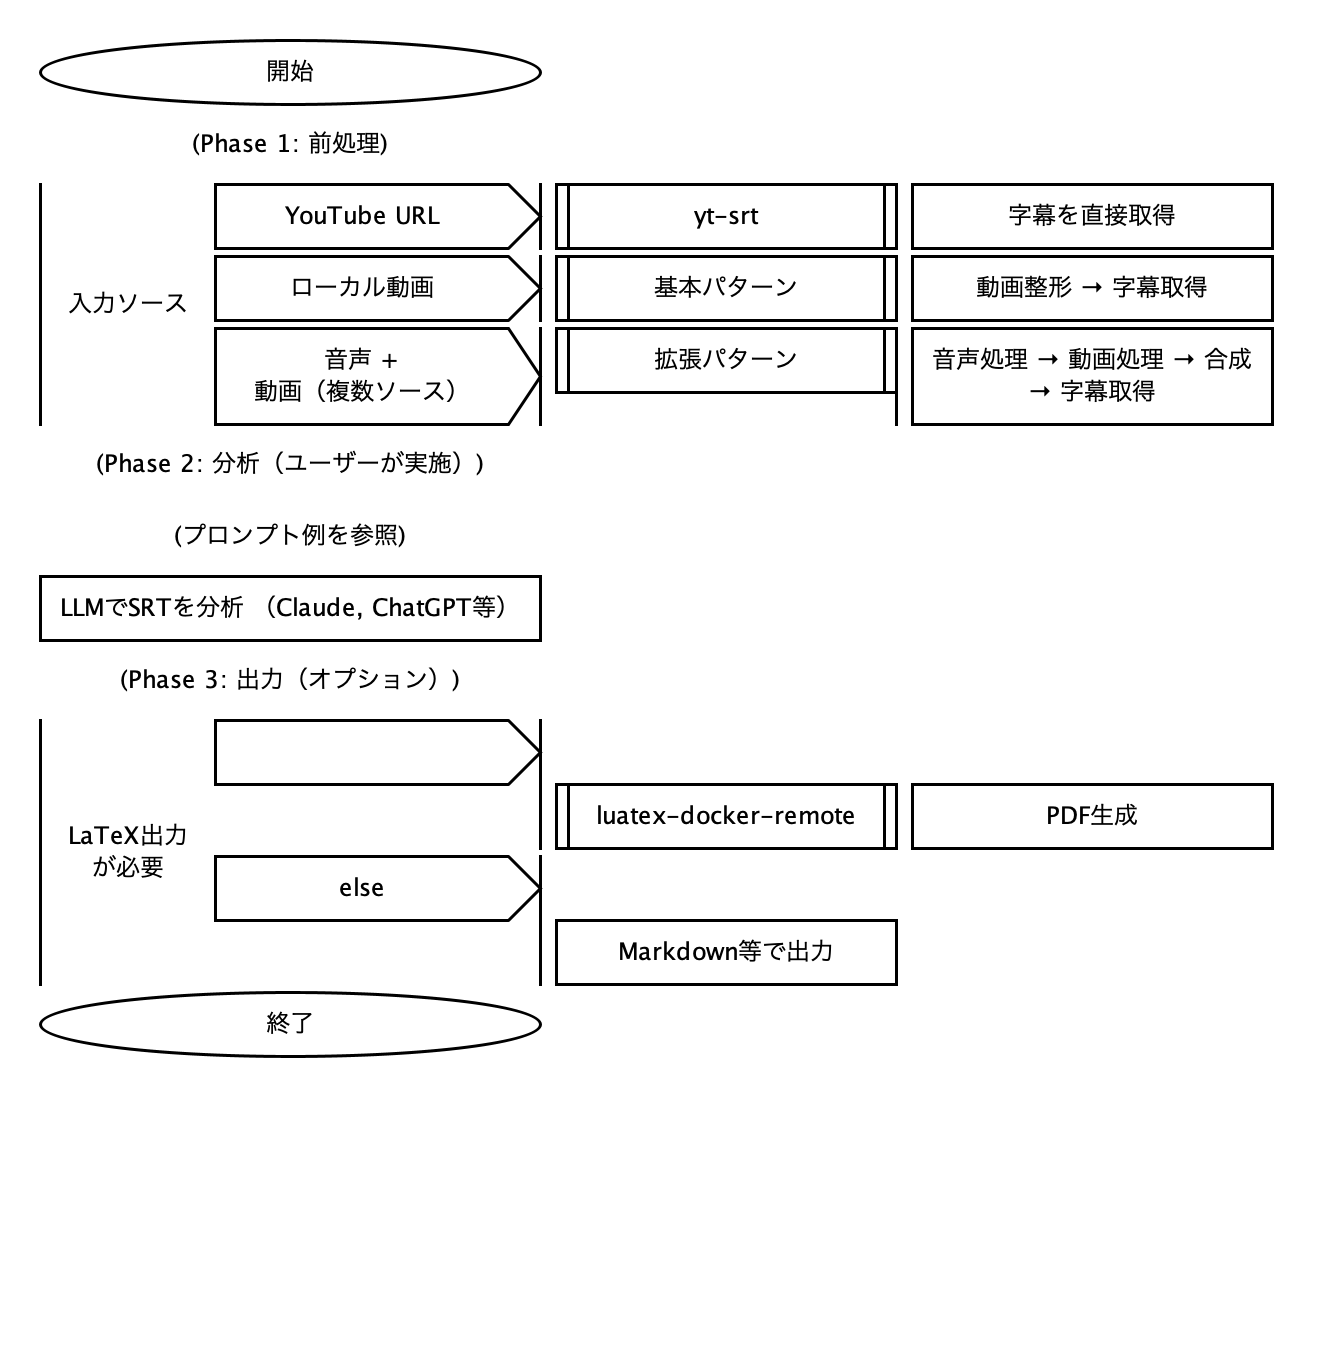
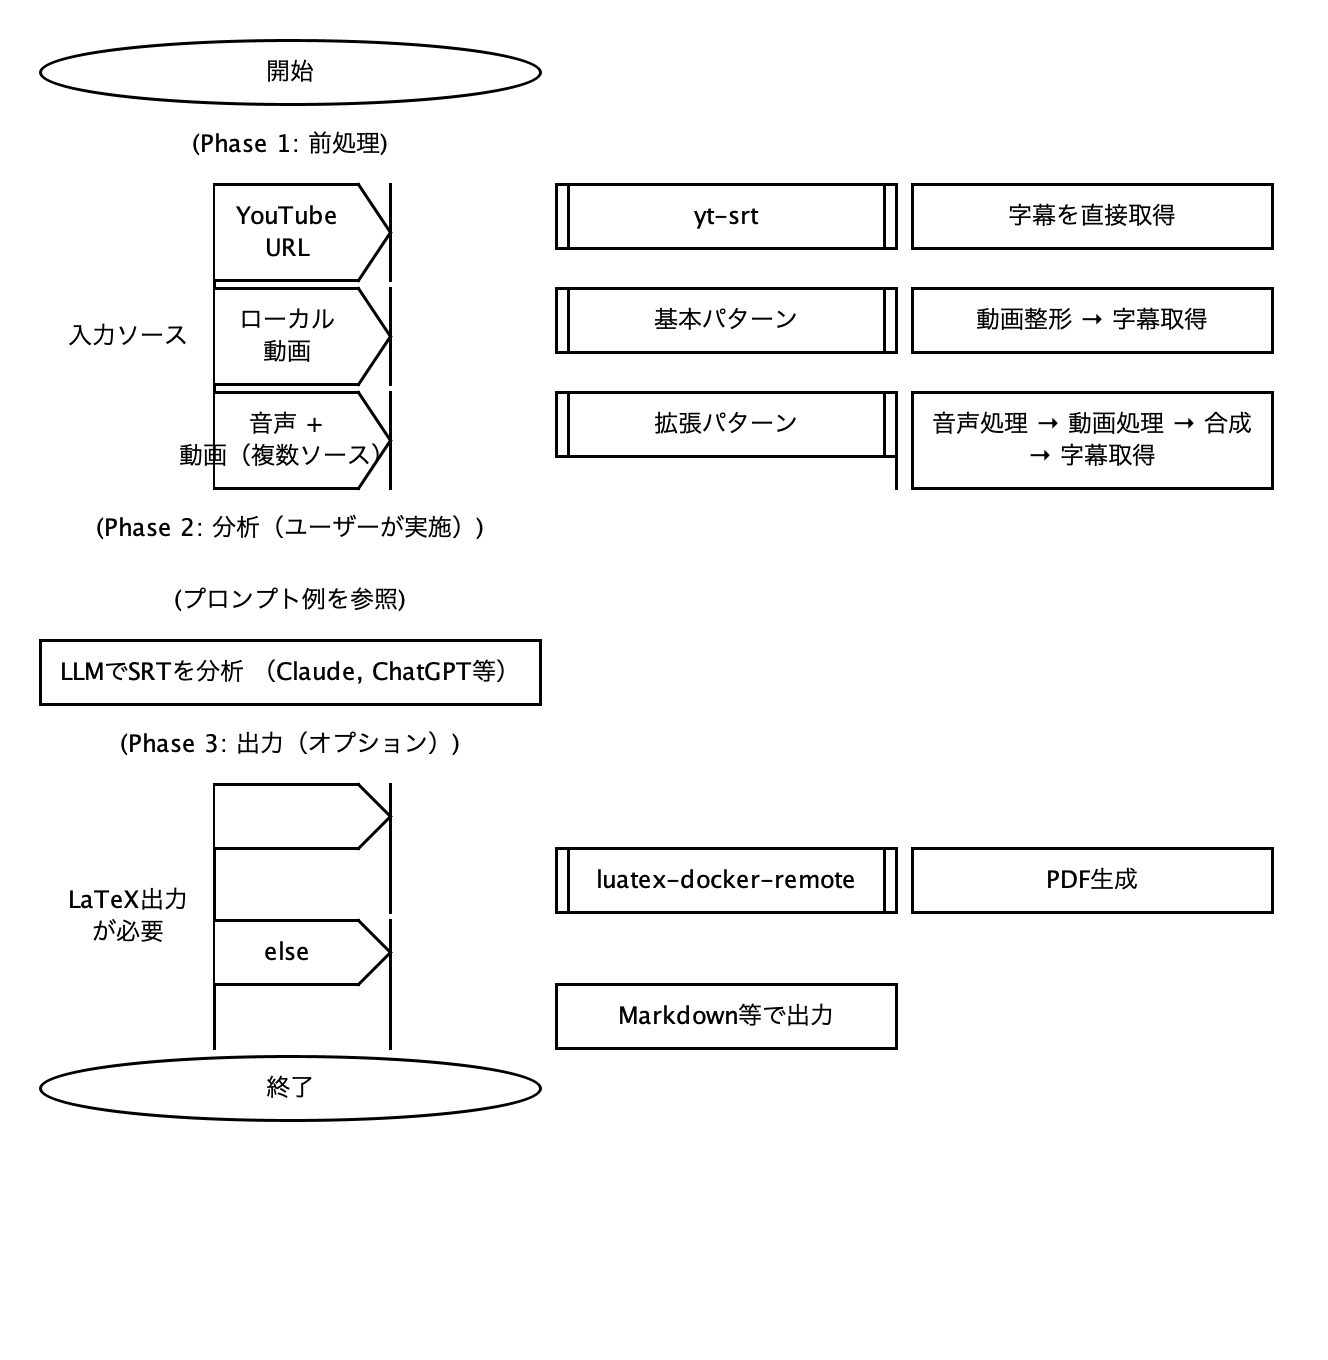
Fix condition branch layout: vertical line connects pennants at left edge
- Condition text now on far left
- Vertical line at pennant left edge (shared by all cases)
- Pennants extend from vertical line to the right
- Applied to both Switch and If nodes

🤖 Generated with [Claude Code](https://claude.com/claude-code)

diff --git a/tools/PadAlignedRenderer.java b/tools/PadAlignedRenderer.java
@@ -439,59 +439,63 @@ public class PadAlignedRenderer {
 
         double conditionWidth = width * 0.35;
         double arrowWidth = 16;  // Width for arrow part
-        double caseWidth = width - conditionWidth;
+        double pennantWidth = conditionWidth;  // Pennant takes the condition column width
+        double pennantX = x + conditionWidth;  // Pennants start after condition text
 
         // Calculate total height with wrapped text
         double totalHeight = 0;
         for (Map.Entry<String, NodeBase> entry : cases.entrySet()) {
             String caseLabel = entry.getKey();
             NodeBase caseChild = entry.getValue();
-            double caseBoxHeight = getTextBoxHeight(caseLabel, caseWidth - arrowWidth);
+            double caseBoxHeight = getTextBoxHeight(caseLabel, pennantWidth - arrowWidth);
             double childHeight = calculateHeight(caseChild);
             totalHeight += Math.max(caseBoxHeight, childHeight) + ROW_GAP;
         }
         totalHeight -= ROW_GAP;
 
-        // Draw vertical line on left for condition area (original PADtools style)
+        // Draw condition text on far left (original PADtools style)
+        drawCenteredText(node.getText(), x, y, conditionWidth, totalHeight, TEXT_COLOR, MAIN_FONT);
+
+        // Draw vertical line at pennant left edge (connects all pennants)
         g2d.setColor(STROKE_COLOR);
         g2d.setStroke(new BasicStroke(1.5f));
-        g2d.drawLine((int)x, (int)y, (int)x, (int)(y + totalHeight));
-
-        // Draw condition text on left (original style: plain text)
-        drawCenteredText(node.getText(), x, y, conditionWidth, totalHeight, TEXT_COLOR, MAIN_FONT);
+        g2d.drawLine((int)pennantX, (int)y, (int)pennantX, (int)(y + totalHeight));
 
         // Draw cases
         double caseY = y;
-        double caseX = x + conditionWidth;
 
         for (Map.Entry<String, NodeBase> entry : cases.entrySet()) {
             String caseLabel = entry.getKey();
             NodeBase caseChild = entry.getValue();
-            double caseBoxHeight = getTextBoxHeight(caseLabel, caseWidth - arrowWidth);
+            double caseBoxHeight = getTextBoxHeight(caseLabel, pennantWidth - arrowWidth);
             double childHeight = calculateHeight(caseChild);
             double rowHeight = Math.max(caseBoxHeight, childHeight);
 
-            // Draw pennant/flag shape (original PADtools style: flat left, pointed right)
+            // Draw pennant/flag shape (original PADtools style: flat left on vertical line, pointed right)
             Path2D pennant = new Path2D.Double();
-            pennant.moveTo(caseX, caseY);
-            pennant.lineTo(caseX + caseWidth - arrowWidth, caseY);
-            pennant.lineTo(caseX + caseWidth, caseY + caseBoxHeight / 2);
-            pennant.lineTo(caseX + caseWidth - arrowWidth, caseY + caseBoxHeight);
-            pennant.lineTo(caseX, caseY + caseBoxHeight);
-            pennant.closePath();
+            pennant.moveTo(pennantX, caseY);
+            pennant.lineTo(pennantX + pennantWidth - arrowWidth, caseY);
+            pennant.lineTo(pennantX + pennantWidth, caseY + caseBoxHeight / 2);
+            pennant.lineTo(pennantX + pennantWidth - arrowWidth, caseY + caseBoxHeight);
+            pennant.lineTo(pennantX, caseY + caseBoxHeight);
+            // Don't close path - left edge is drawn as the vertical line
 
             g2d.setColor(FILL_COLOR);
             g2d.fill(pennant);
             g2d.setColor(STROKE_COLOR);
             g2d.setStroke(new BasicStroke(1.5f));
-            g2d.draw(pennant);
+            // Draw only top, right arrow, and bottom edges (not left - that's the vertical line)
+            g2d.draw(new Line2D.Double(pennantX, caseY, pennantX + pennantWidth - arrowWidth, caseY));
+            g2d.draw(new Line2D.Double(pennantX + pennantWidth - arrowWidth, caseY, pennantX + pennantWidth, caseY + caseBoxHeight / 2));
+            g2d.draw(new Line2D.Double(pennantX + pennantWidth, caseY + caseBoxHeight / 2, pennantX + pennantWidth - arrowWidth, caseY + caseBoxHeight));
+            g2d.draw(new Line2D.Double(pennantX + pennantWidth - arrowWidth, caseY + caseBoxHeight, pennantX, caseY + caseBoxHeight));
 
-            drawCenteredText(caseLabel, caseX, caseY,
-                            caseWidth - arrowWidth, caseBoxHeight, TEXT_COLOR, MAIN_FONT);
+            drawCenteredText(caseLabel, pennantX, caseY,
+                            pennantWidth - arrowWidth, caseBoxHeight, TEXT_COLOR, MAIN_FONT);
 
-            // Draw vertical line connecting to children
+            // Draw vertical line connecting to children (at right edge of pennant)
             if (caseChild != null && childHeight > 0) {
-                double lineX = x + width;
+                double lineX = pennantX + pennantWidth;
                 g2d.setColor(STROKE_COLOR);
                 g2d.setStroke(new BasicStroke(1.5f));
                 g2d.drawLine((int)lineX, (int)caseY, (int)lineX, (int)(caseY + rowHeight));
@@ -514,36 +518,38 @@ public class PadAlignedRenderer {
 
         double conditionWidth = width * 0.35;
         double arrowWidth = 16;
-        double branchWidth = width - conditionWidth;
+        double pennantWidth = conditionWidth;  // Pennant takes the condition column width
+        double pennantX = x + conditionWidth;  // Pennants start after condition text
 
-        // Draw vertical line on left for condition area (original PADtools style)
-        g2d.setColor(STROKE_COLOR);
-        g2d.setStroke(new BasicStroke(1.5f));
-        g2d.drawLine((int)x, (int)y, (int)x, (int)(y + totalHeight));
-
-        // Draw condition text on left (original style)
+        // Draw condition text on far left (original PADtools style)
         drawCenteredText(node.getText(), x, y, conditionWidth, totalHeight, TEXT_COLOR, MAIN_FONT);
 
-        // Draw then branch with pennant shape (original PADtools style: flat left, pointed right)
-        double branchX = x + conditionWidth;
+        // Draw vertical line at pennant left edge (connects all pennants)
+        g2d.setColor(STROKE_COLOR);
+        g2d.setStroke(new BasicStroke(1.5f));
+        g2d.drawLine((int)pennantX, (int)y, (int)pennantX, (int)(y + totalHeight));
 
+        // Draw then branch with pennant shape (original PADtools style: flat left on vertical line, pointed right)
         Path2D thenPennant = new Path2D.Double();
-        thenPennant.moveTo(branchX, y);
-        thenPennant.lineTo(branchX + branchWidth - arrowWidth, y);
-        thenPennant.lineTo(branchX + branchWidth, y + BOX_HEIGHT / 2);
-        thenPennant.lineTo(branchX + branchWidth - arrowWidth, y + BOX_HEIGHT);
-        thenPennant.lineTo(branchX, y + BOX_HEIGHT);
-        thenPennant.closePath();
+        thenPennant.moveTo(pennantX, y);
+        thenPennant.lineTo(pennantX + pennantWidth - arrowWidth, y);
+        thenPennant.lineTo(pennantX + pennantWidth, y + BOX_HEIGHT / 2);
+        thenPennant.lineTo(pennantX + pennantWidth - arrowWidth, y + BOX_HEIGHT);
+        thenPennant.lineTo(pennantX, y + BOX_HEIGHT);
 
         g2d.setColor(FILL_COLOR);
         g2d.fill(thenPennant);
         g2d.setColor(STROKE_COLOR);
         g2d.setStroke(new BasicStroke(1.5f));
-        g2d.draw(thenPennant);
+        // Draw only top, right arrow, and bottom edges (not left - that's the vertical line)
+        g2d.draw(new Line2D.Double(pennantX, y, pennantX + pennantWidth - arrowWidth, y));
+        g2d.draw(new Line2D.Double(pennantX + pennantWidth - arrowWidth, y, pennantX + pennantWidth, y + BOX_HEIGHT / 2));
+        g2d.draw(new Line2D.Double(pennantX + pennantWidth, y + BOX_HEIGHT / 2, pennantX + pennantWidth - arrowWidth, y + BOX_HEIGHT));
+        g2d.draw(new Line2D.Double(pennantX + pennantWidth - arrowWidth, y + BOX_HEIGHT, pennantX, y + BOX_HEIGHT));
 
-        // Draw vertical line connecting to then children
+        // Draw vertical line connecting to then children (at right edge of pennant)
         if (node.getTrueNode() != null && thenChildHeight > 0) {
-            double lineX = x + width;
+            double lineX = pennantX + pennantWidth;
             g2d.setColor(STROKE_COLOR);
             g2d.setStroke(new BasicStroke(1.5f));
             g2d.drawLine((int)lineX, (int)y, (int)lineX, (int)(y + thenHeight));
@@ -560,25 +566,28 @@ public class PadAlignedRenderer {
             double elseY = thenY + ROW_GAP;
 
             Path2D elsePennant = new Path2D.Double();
-            elsePennant.moveTo(branchX, elseY);
-            elsePennant.lineTo(branchX + branchWidth - arrowWidth, elseY);
-            elsePennant.lineTo(branchX + branchWidth, elseY + BOX_HEIGHT / 2);
-            elsePennant.lineTo(branchX + branchWidth - arrowWidth, elseY + BOX_HEIGHT);
-            elsePennant.lineTo(branchX, elseY + BOX_HEIGHT);
-            elsePennant.closePath();
+            elsePennant.moveTo(pennantX, elseY);
+            elsePennant.lineTo(pennantX + pennantWidth - arrowWidth, elseY);
+            elsePennant.lineTo(pennantX + pennantWidth, elseY + BOX_HEIGHT / 2);
+            elsePennant.lineTo(pennantX + pennantWidth - arrowWidth, elseY + BOX_HEIGHT);
+            elsePennant.lineTo(pennantX, elseY + BOX_HEIGHT);
 
             g2d.setColor(FILL_COLOR);
             g2d.fill(elsePennant);
             g2d.setColor(STROKE_COLOR);
             g2d.setStroke(new BasicStroke(1.5f));
-            g2d.draw(elsePennant);
+            // Draw only top, right arrow, and bottom edges (not left - that's the vertical line)
+            g2d.draw(new Line2D.Double(pennantX, elseY, pennantX + pennantWidth - arrowWidth, elseY));
+            g2d.draw(new Line2D.Double(pennantX + pennantWidth - arrowWidth, elseY, pennantX + pennantWidth, elseY + BOX_HEIGHT / 2));
+            g2d.draw(new Line2D.Double(pennantX + pennantWidth, elseY + BOX_HEIGHT / 2, pennantX + pennantWidth - arrowWidth, elseY + BOX_HEIGHT));
+            g2d.draw(new Line2D.Double(pennantX + pennantWidth - arrowWidth, elseY + BOX_HEIGHT, pennantX, elseY + BOX_HEIGHT));
 
-            drawCenteredText("else", branchX, elseY,
-                            branchWidth - arrowWidth, BOX_HEIGHT, TEXT_COLOR, MAIN_FONT);
+            drawCenteredText("else", pennantX, elseY,
+                            pennantWidth - arrowWidth, BOX_HEIGHT, TEXT_COLOR, MAIN_FONT);
 
-            // Draw vertical line connecting to else children
+            // Draw vertical line connecting to else children (at right edge of pennant)
             if (elseChildHeight > 0) {
-                double lineX = x + width;
+                double lineX = pennantX + pennantWidth;
                 g2d.setColor(STROKE_COLOR);
                 g2d.setStroke(new BasicStroke(1.5f));
                 g2d.drawLine((int)lineX, (int)elseY, (int)lineX, (int)(elseY + elseHeight));
